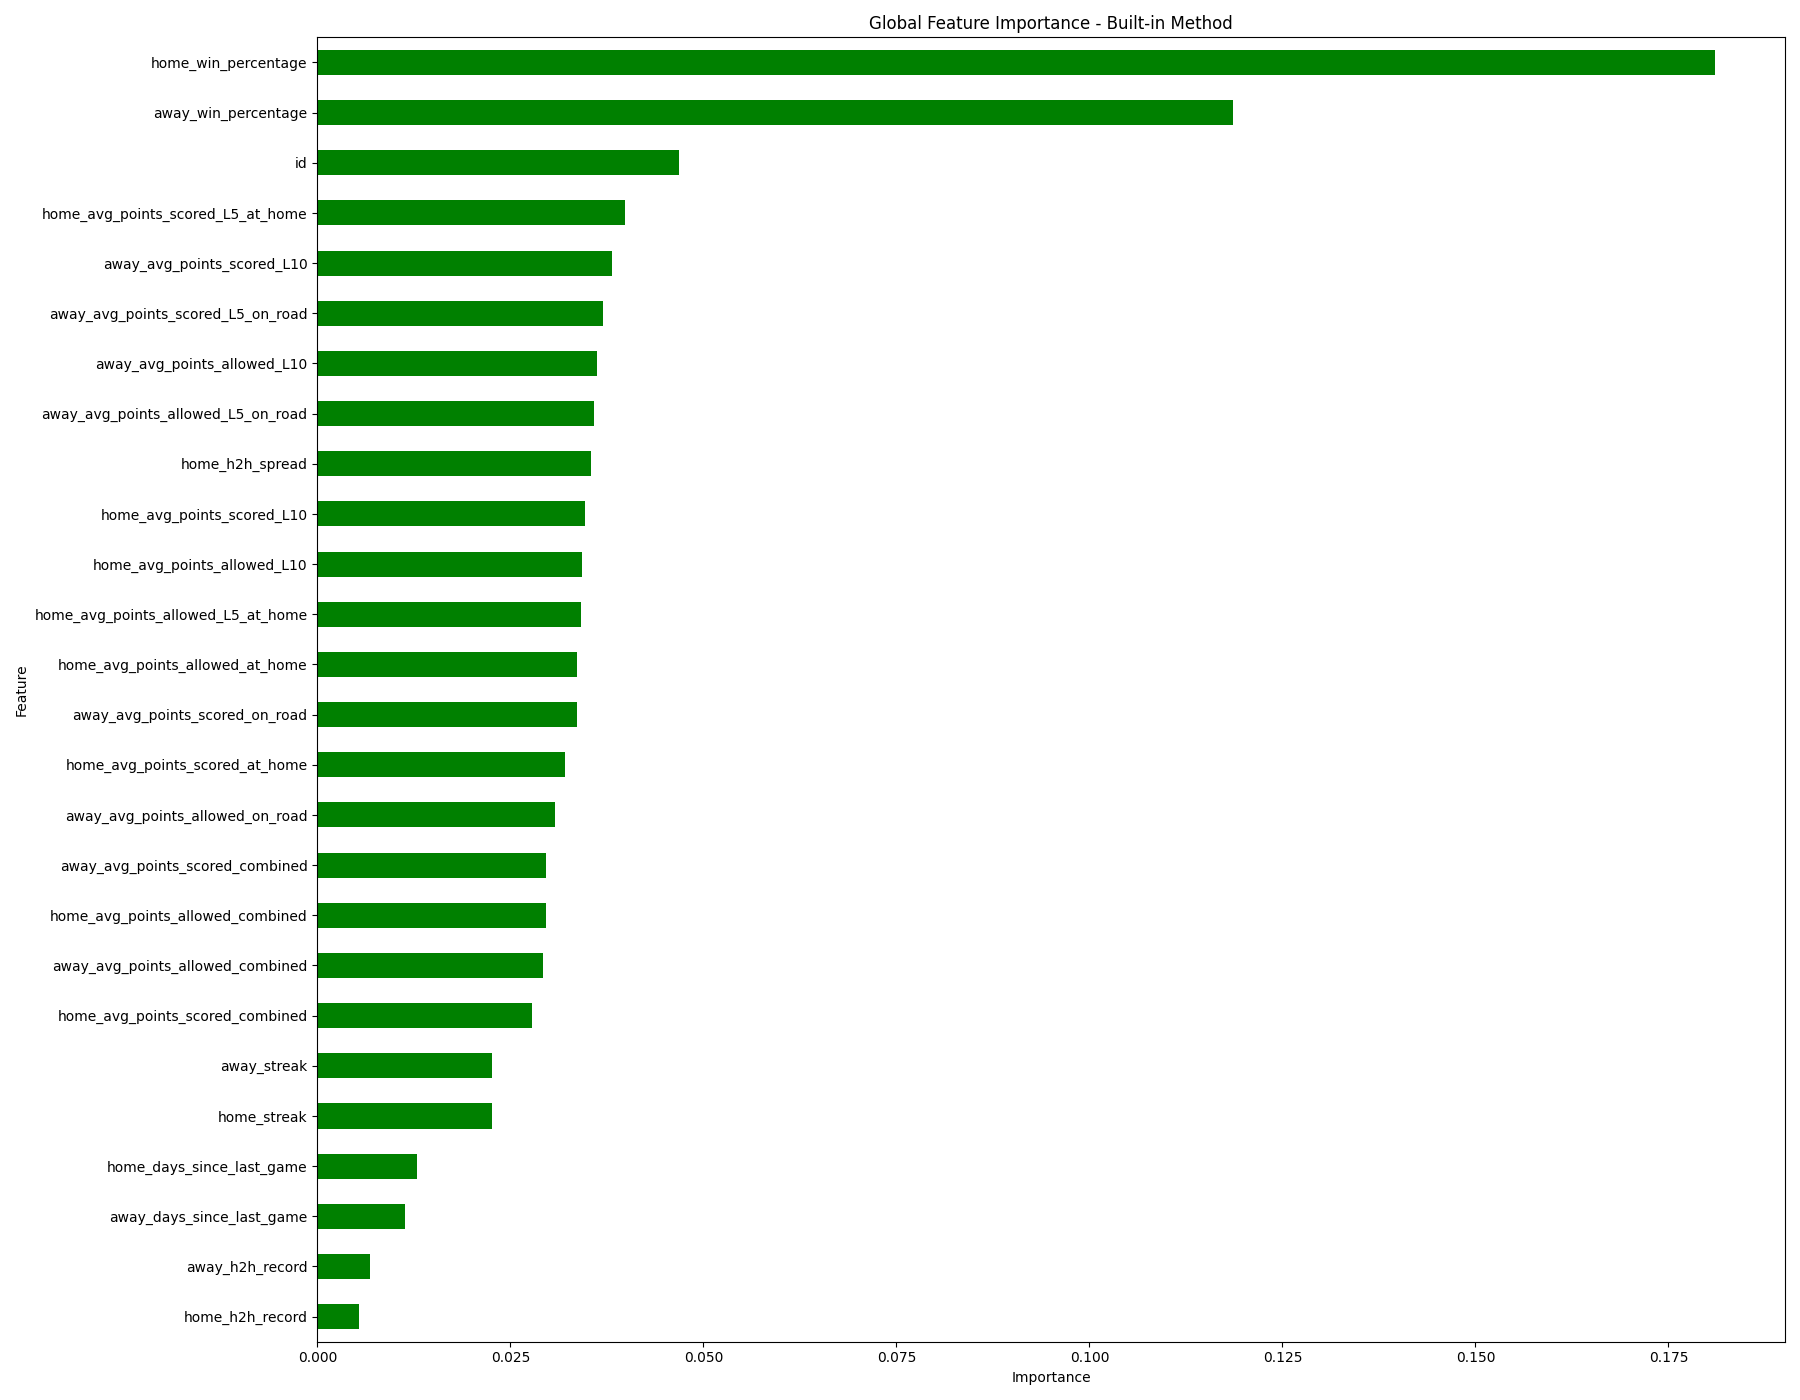
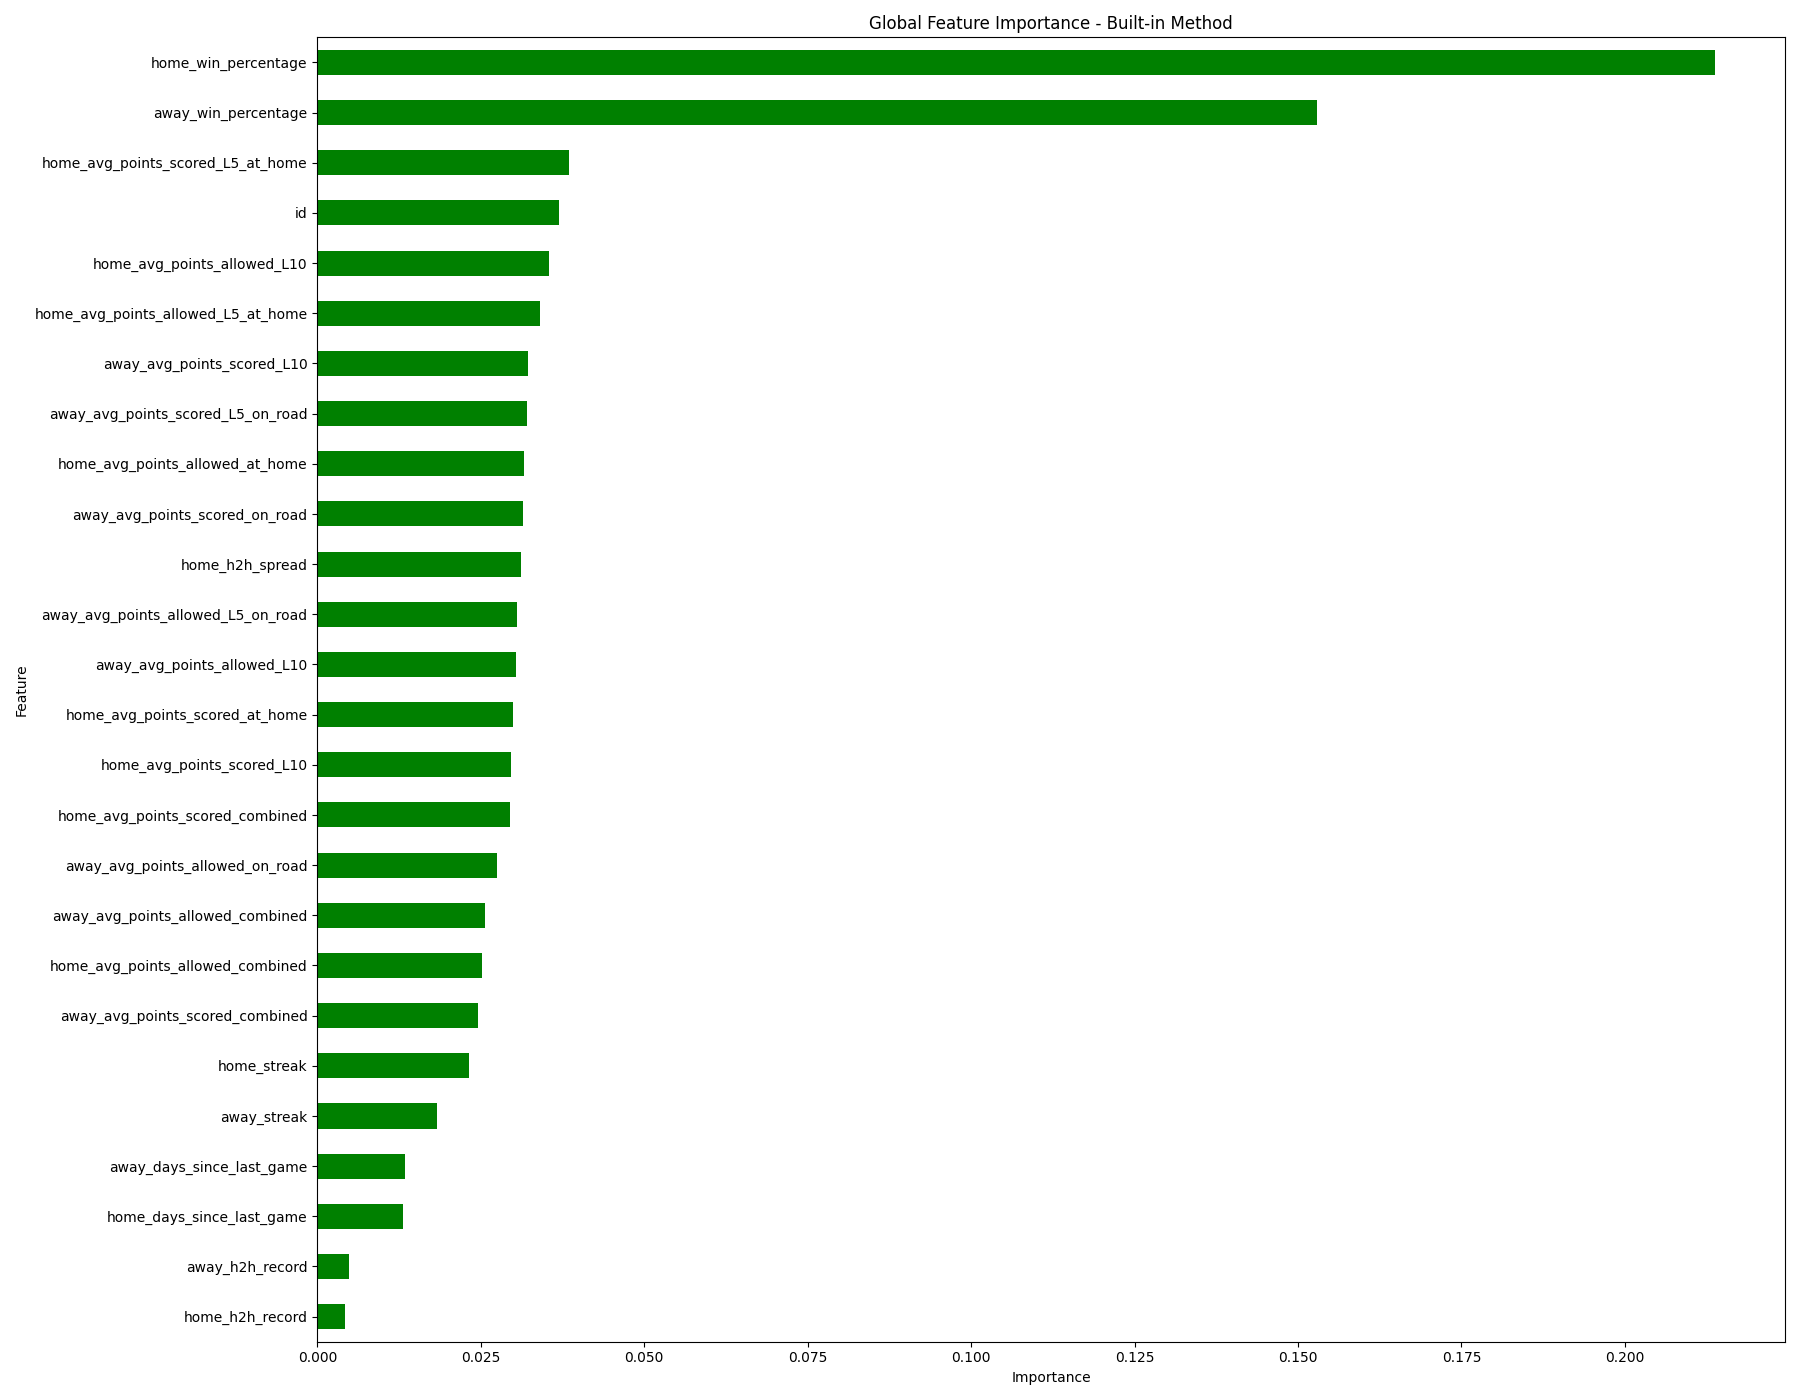
new spread results

diff --git a/train_model.py b/train_model.py
@@ -4,6 +4,7 @@ import numpy as np
 import tensorflow as tf
 from tensorflow.keras.models import Sequential
 from tensorflow.keras.layers import Dense, Dropout
+from tensorflow.keras.optimizers import Adam
 
 from sklearn.model_selection import train_test_split
 from sklearn.preprocessing import StandardScaler
@@ -21,7 +22,7 @@ def train_random_forest(data_loc, n_estimators, max_depth, test_size):
     
     # Load the data
     X = data.drop(columns=['league.season', 'teams.home.id', 'teams.away.id', 'home_spread', 'winner'])
-    y = data['winner']  # Target variable
+    y = data['home_spread']  # Target variable
 
     # Split data into train and test sets
     X_train, X_test, y_train, y_test = train_test_split(X, y, test_size=test_size, random_state=42)
@@ -34,13 +35,15 @@ def train_random_forest(data_loc, n_estimators, max_depth, test_size):
     y_pred = rf_model.predict(X_test)
 
     # Evaluate the model
-    # mae = mean_absolute_error(y_test, y_pred)
-    y_pred_class = (y_pred > 0).astype(int)  # 1 for home win, 0 for away win
-    accuracy = accuracy_score(y_test, y_pred_class) * 100
+    # Spread: 
+    mae = mean_absolute_error(y_test, y_pred)    
+    # MoneyLine:
+    # y_pred_class = (y_pred > 0).astype(int)  # 1 for home win, 0 for away win
+    # accuracy = accuracy_score(y_test, y_pred_class) * 100
 
     print(f"Random Forest Model Performance:")
     print(f"n_estimators: {n_estimators}")
-    print(f"Accuracy: {accuracy}%")
+    print(f"MAE: {mae}")
 
     # plotting feature importance
     global_importances = pd.Series(rf_model.feature_importances_, index=X_train.columns)
@@ -66,7 +69,7 @@ def train_DNN():
 
     # Load the data
     X = data.drop(columns=['league.season', 'teams.home.id', 'teams.away.id', 'home_spread', 'winner'])
-    y = data['winner']
+    y = data['home_spread']
 
     X_train, X_temp, y_train, y_temp = train_test_split(X, y, test_size=0.2, random_state=42)
     X_val, X_test, y_val, y_test = train_test_split(X_temp, y_temp, test_size=0.5, random_state=42)
@@ -89,15 +92,17 @@ def train_DNN():
 
 
     # Compile the model
-    model.compile(optimizer='adam', loss='binary_crossentropy', metrics=['accuracy'])
+    optimizer = Adam(learning_rate=0.0005)
+    # model.compile(optimizer=optimizer, loss='binary_crossentropy', metrics=['accuracy'])
+    model.compile(optimizer=optimizer, loss='mean_absolute_error')
 
     # Train the model with early stopping
     early_stopping = tf.keras.callbacks.EarlyStopping(monitor='val_loss', patience=10, restore_best_weights=True)
     history = model.fit(X_train, y_train, validation_data=(X_val, y_val), epochs=100, callbacks=[early_stopping])
 
     # Evaluate on the test set
-    loss, accuracy = model.evaluate(X_test, y_test)
-    print(f'Test Accuracy (Success Rate): {accuracy * 100:.2f}%')
+    test_loss = model.evaluate(X_test, y_test)
+    print(f'Test loss (MAE): {test_loss}')
 
 
 def main():
